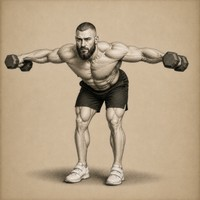
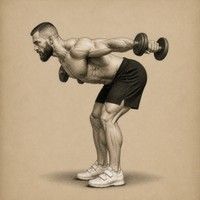
📷 ещё 5 упражнений, переделано разведение в наклоне — все мужские разделы кроме кроссфита с картинками
Claude-Session: https://claude.ai/code/session_018VXD4iX1hgEabC5HJxP3H5

diff --git a/index.html b/index.html
@@ -450,7 +450,7 @@ var GSEL=null;function GEN(){try{var g=localStorage.getItem('gym_g');if(g)return
 function gOf(w){return isWp(w.p)?'w':'m'}
 function gh(){var g=GEN()||'m';return S.h.filter(function(w){return gOf(w)==g})}
 function inlineProg(){var g=GEN()||'m';if(g=='w'){if(!isWp(S.prog))S.prog=S.wp||'wom'}else if(isWp(S.prog))S.prog=S.mp||'arn';return '<div id="pgi" data-g="'+g+'">'+progHtml()+'</div>'}
-var PICS={"Приседания со штангой":1,"Приседания «колодец»":2,"Жим штанги лёжа":3,"Жим штанги на наклонной скамье":4,"Жим гантелей лёжа":5,"Жим гантелей на наклонной":6,"Разведение гантелей лёжа":7,"Жим гантелей на скамье с наклоном вниз":8,"Отжимания на брусьях":9,"Отжимания":10,"Пуллоувер со штангой":11,"Пуллоувер с гантелью":12,"Сведение в кроссовере":13,"Подтягивания широким хватом":14,"Подтягивания":15,"Тяга верхнего блока к груди":16,"Тяга верхнего блока узким хватом":17,"Тяга штанги в наклоне":18,"Тяга Т-грифа":19,"Тяга нижнего блока к поясу":20,"Становая тяга":21,"Гиперэкстензии":22,"Жим штанги стоя":23,"Жим гантелей сидя":24,"Жим Арнольда сидя с опорой":25,"Разведение гантелей стоя":26,"Разведение гантелей сидя":27,"Обратная бабочка":28,"Высокая тяга штанги узким хватом":29,"Шраги с гантелями":30,"Подъём штанги на бицепс стоя":31,"Подъём гантелей на бицепс попеременно":32,"Молотковые сгибания":33,"Сгибание рук с гантелями на наклонной скамье":34,"Концентрированные сгибания":35,"Сгибание рук на Скотте":36,"Французский жим лёжа":37,"Жим лёжа узким хватом":38,"Разгибание рук на блоке":39,"Разгибание рук на блоке с канатом":40,"Сгибание запястий со штангой":41,"Обратное сгибание запястий со штангой":42,"Фронтальные приседания":43,"Приседания в гакк-машине":44,"Жим ногами":45,"Выпады с гантелями":46,"Разгибание ног":47,"Сгибание ног":48,"Становая тяга на прямых ногах":49,"Подъёмы на носки стоя в тренажёре":50,"Подъёмы на носки сидя в тренажёре":51,"Скручивания на полу":52,"Обратные скручивания":53,"Скручивания на блоке":54,"Подъём ног к перекладине":55,"Жим штанги лёжа с паузой":3,"Жим штанги лёжа (лёгкий день)":3,"Жим лёжа узким хватом (пауза, лёгкий день)":38,"Жим гантелей сидя на скамье 80°":24,"Жим гантелей сидя с опорой":24,"Горизонтальная тяга с опорой":56,"Тяга на блоке книзу":16,"Тяга в тренажёре с опорой на грудь":57,"Жим от груди в тренажёре":58,"Сведение в тренажёре":59,"Жим в Смите на наклонной":60,"Тяга верхнего блока широким хватом":61,"Тяга верхнего блока обратным хватом":62,"Тяга гантели в наклоне с опорой":63,"Тяга прямыми руками на блоке":64,"Подтягивания обратным хватом":65,"Сведение ног в тренажёре":66,"Разведение ног в тренажёре":67,"Болгарские выпады":68,"Румынская тяга со штангой":69,"Приседания в Смите":70,"Приседания гоблет":71,"Зашагивания на скамью с гантелями":72,"Ягодичный мостик со штангой":73,"Жим от плеч в тренажёре":74,"Махи в сторону на блоке":75,"Подъём гантелей перед собой":76,"Тяга каната к лицу":77,"Разведение гантелей в наклоне":78,"Шраги со штангой":79,"Сгибание рук с гантелями":80,"Сгибание рук на нижнем блоке":81,"Сгибание рук обратным хватом":82,"Разгибание руки с гантелью из-за головы":83};
+var PICS={"Приседания со штангой":1,"Приседания «колодец»":2,"Жим штанги лёжа":3,"Жим штанги на наклонной скамье":4,"Жим гантелей лёжа":5,"Жим гантелей на наклонной":6,"Разведение гантелей лёжа":7,"Жим гантелей на скамье с наклоном вниз":8,"Отжимания на брусьях":9,"Отжимания":10,"Пуллоувер со штангой":11,"Пуллоувер с гантелью":12,"Сведение в кроссовере":13,"Подтягивания широким хватом":14,"Подтягивания":15,"Тяга верхнего блока к груди":16,"Тяга верхнего блока узким хватом":17,"Тяга штанги в наклоне":18,"Тяга Т-грифа":19,"Тяга нижнего блока к поясу":20,"Становая тяга":21,"Гиперэкстензии":22,"Жим штанги стоя":23,"Жим гантелей сидя":24,"Жим Арнольда сидя с опорой":25,"Разведение гантелей стоя":26,"Разведение гантелей сидя":27,"Обратная бабочка":28,"Высокая тяга штанги узким хватом":29,"Шраги с гантелями":30,"Подъём штанги на бицепс стоя":31,"Подъём гантелей на бицепс попеременно":32,"Молотковые сгибания":33,"Сгибание рук с гантелями на наклонной скамье":34,"Концентрированные сгибания":35,"Сгибание рук на Скотте":36,"Французский жим лёжа":37,"Жим лёжа узким хватом":38,"Разгибание рук на блоке":39,"Разгибание рук на блоке с канатом":40,"Сгибание запястий со штангой":41,"Обратное сгибание запястий со штангой":42,"Фронтальные приседания":43,"Приседания в гакк-машине":44,"Жим ногами":45,"Выпады с гантелями":46,"Разгибание ног":47,"Сгибание ног":48,"Становая тяга на прямых ногах":49,"Подъёмы на носки стоя в тренажёре":50,"Подъёмы на носки сидя в тренажёре":51,"Скручивания на полу":52,"Обратные скручивания":53,"Скручивания на блоке":54,"Подъём ног к перекладине":55,"Жим штанги лёжа с паузой":3,"Жим штанги лёжа (лёгкий день)":3,"Жим лёжа узким хватом (пауза, лёгкий день)":38,"Жим гантелей сидя на скамье 80°":24,"Жим гантелей сидя с опорой":24,"Горизонтальная тяга с опорой":56,"Тяга на блоке книзу":16,"Тяга в тренажёре с опорой на грудь":57,"Жим от груди в тренажёре":58,"Сведение в тренажёре":59,"Жим в Смите на наклонной":60,"Тяга верхнего блока широким хватом":61,"Тяга верхнего блока обратным хватом":62,"Тяга гантели в наклоне с опорой":63,"Тяга прямыми руками на блоке":64,"Подтягивания обратным хватом":65,"Сведение ног в тренажёре":66,"Разведение ног в тренажёре":67,"Болгарские выпады":68,"Румынская тяга со штангой":69,"Приседания в Смите":70,"Приседания гоблет":71,"Зашагивания на скамью с гантелями":72,"Ягодичный мостик со штангой":73,"Жим от плеч в тренажёре":74,"Махи в сторону на блоке":75,"Подъём гантелей перед собой":76,"Тяга каната к лицу":77,"Разведение гантелей в наклоне":78,"Шраги со штангой":79,"Сгибание рук с гантелями":80,"Сгибание рук на нижнем блоке":81,"Сгибание рук обратным хватом":82,"Разгибание руки с гантелью из-за головы":83,"Разгибание рук из-за головы на блоке":84,"Кикбэк с гантелью":85,"Отжимания от скамьи":86};
 function picBtn(n){return PICS[n]?'<button class="pic" aria-label="Техника" onclick="event.stopPropagation();showPic('+PICS[n]+')">📷</button>':''}
 function showPic(i){var o=document.getElementById('picov');if(!o){o=document.createElement('div');o.id='picov';o.onclick=function(){o.style.display='none'};document.body.appendChild(o)}o.innerHTML='<img src="ex/'+('0'+i).slice(-2)+'.jpg" alt="">';o.style.display='flex'}
 function render(){
@@ -638,7 +638,7 @@ if(g0){GSEL=g0;try{localStorage.setItem('gym_g',g0)}catch(e){}apply(g0)}else{ren
 input,select,textarea{font-size:16px!important}
 html{-webkit-text-size-adjust:100%;touch-action:manipulation}
 </style>
-<script>var BUILD='20261117022759';(function(){var last=0;function chk(){var n=Date.now();if(n-last<30000)return;last=n;if(S&&S.cur&&S.cur.t0)return;try{fetch('version.json?t='+n,{cache:'no-store'}).then(function(r){return r.ok?r.json():null}).then(function(j){if(!j||!j.b||j.b==BUILD)return;var k='gym_try';if(sessionStorage.getItem(k)==j.b)return;sessionStorage.setItem(k,j.b);location.replace(location.pathname+'?v='+j.b)}).catch(function(){})}catch(e){}}
+<script>var BUILD='20261117023159';(function(){var last=0;function chk(){var n=Date.now();if(n-last<30000)return;last=n;if(S&&S.cur&&S.cur.t0)return;try{fetch('version.json?t='+n,{cache:'no-store'}).then(function(r){return r.ok?r.json():null}).then(function(j){if(!j||!j.b||j.b==BUILD)return;var k='gym_try';if(sessionStorage.getItem(k)==j.b)return;sessionStorage.setItem(k,j.b);location.replace(location.pathname+'?v='+j.b)}).catch(function(){})}catch(e){}}
 document.addEventListener('visibilitychange',function(){if(!document.hidden)chk()});
 /* при запуске: сначала проверяем версию и только потом показываем экран — без мелькания старой версии */
 var de=document.documentElement,shown=false;function show(){if(shown)return;shown=true;de.style.visibility=''}
